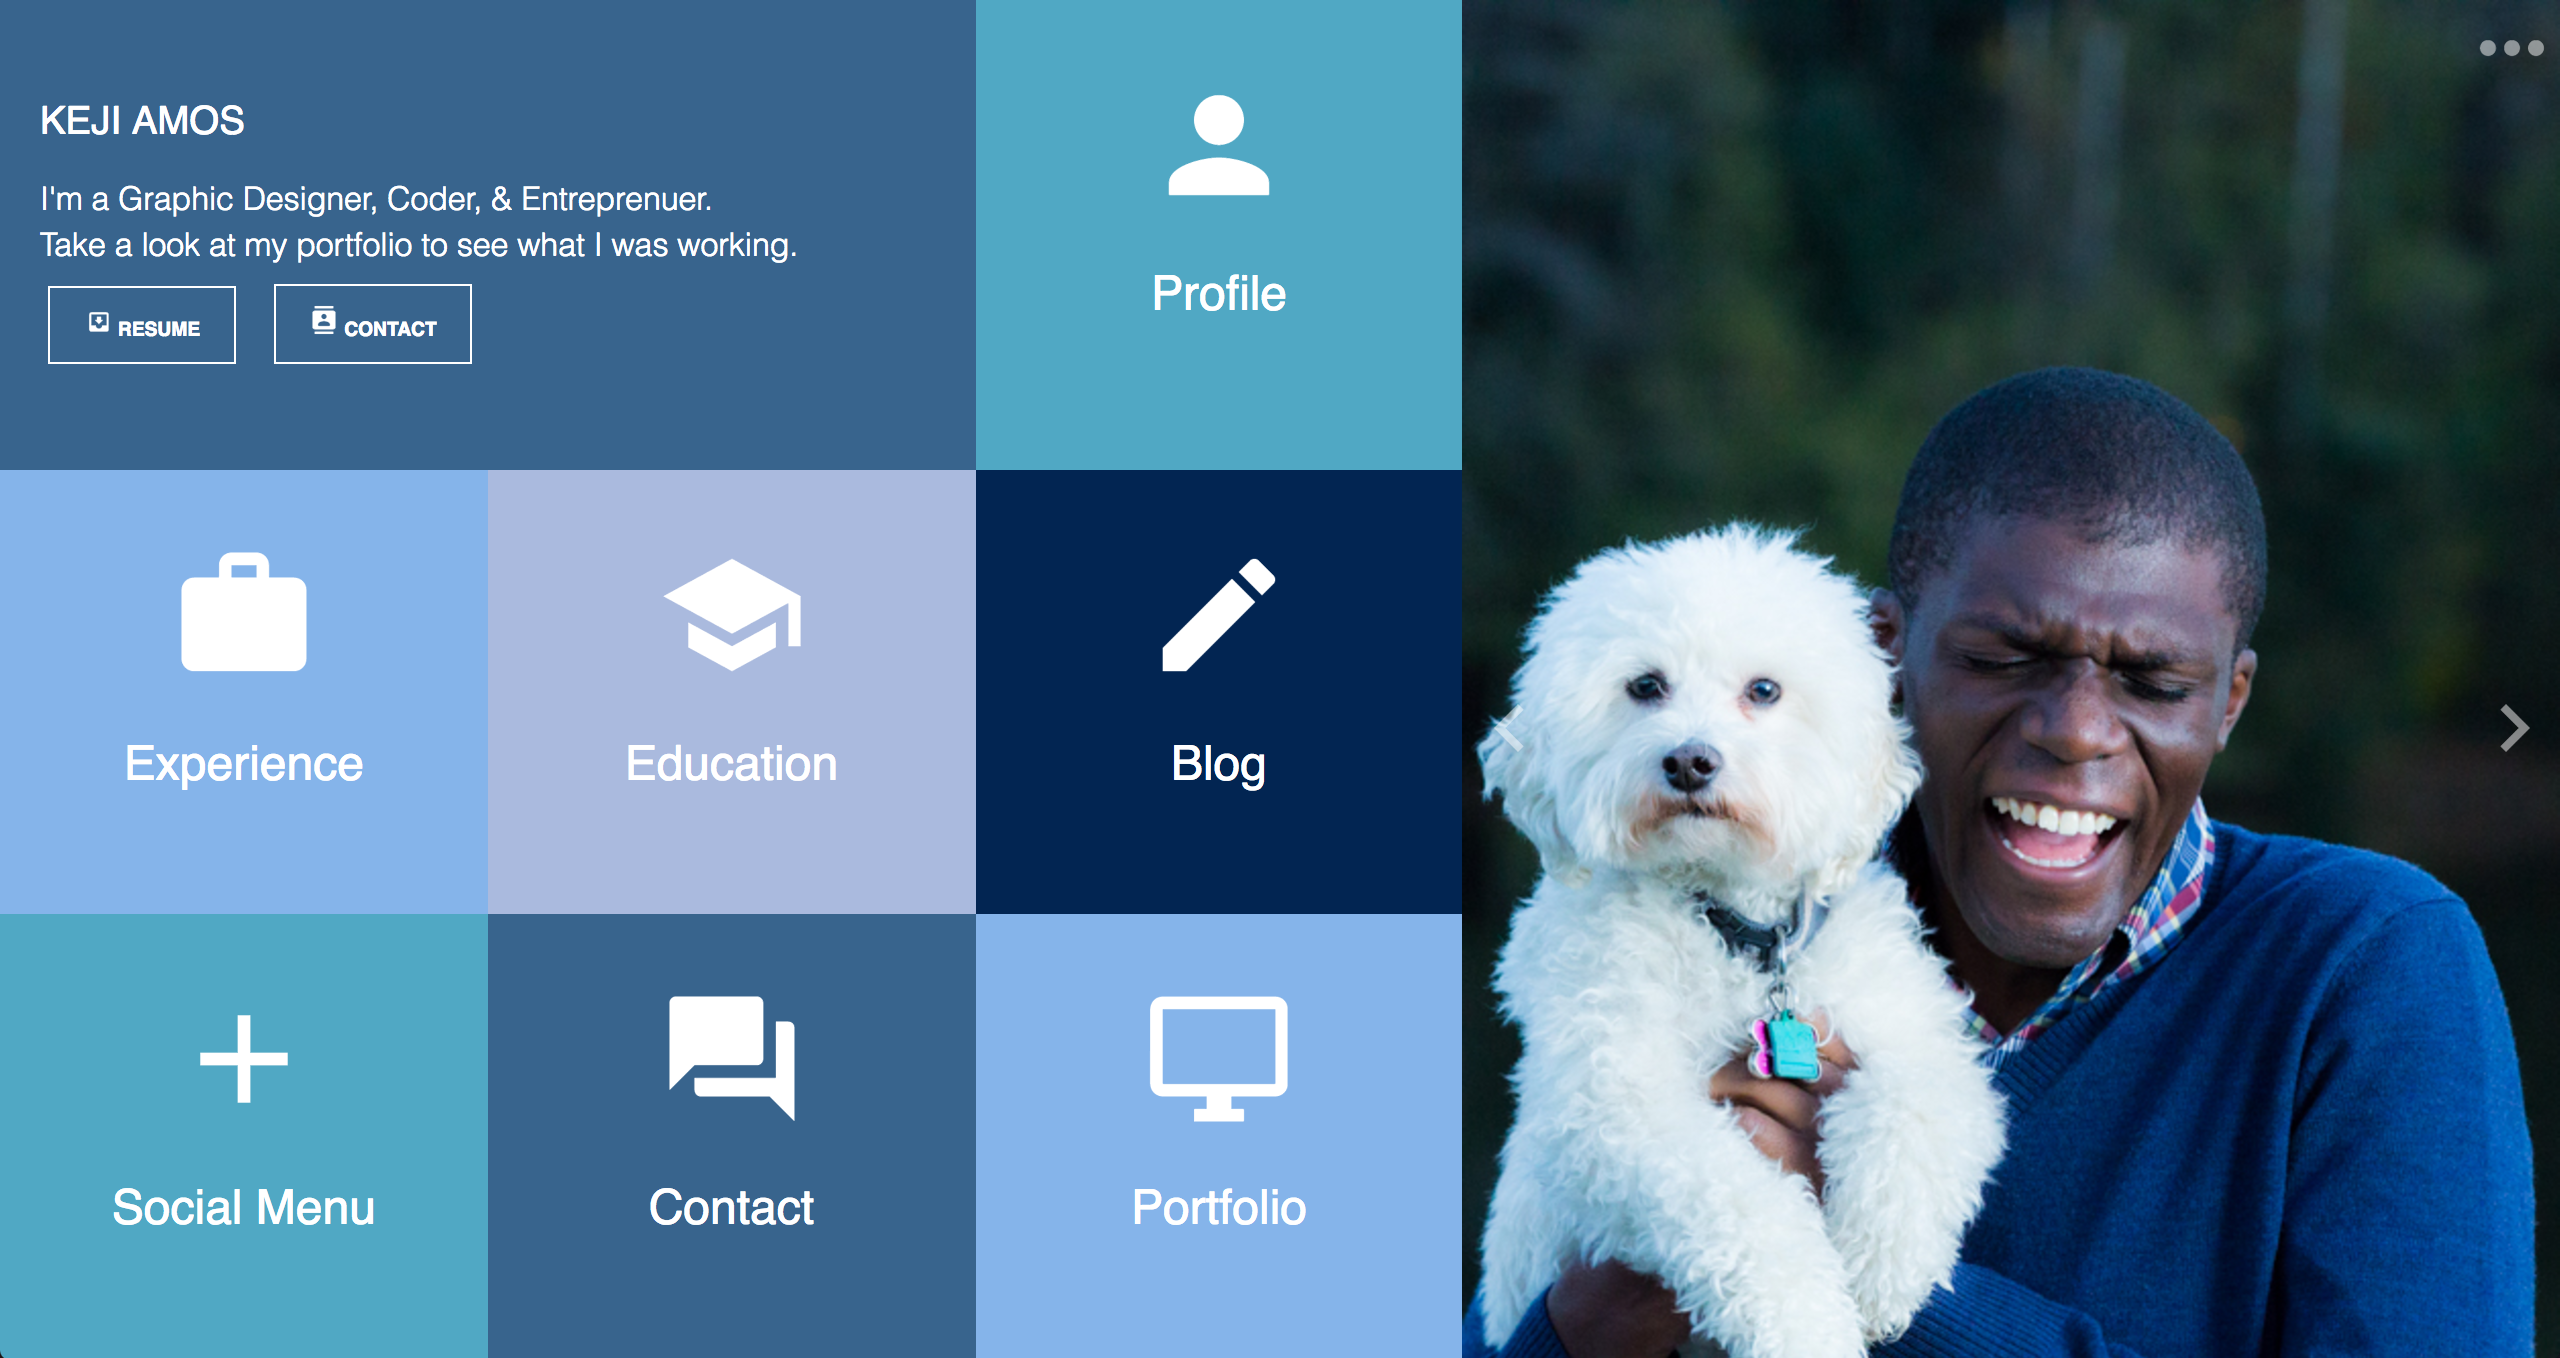
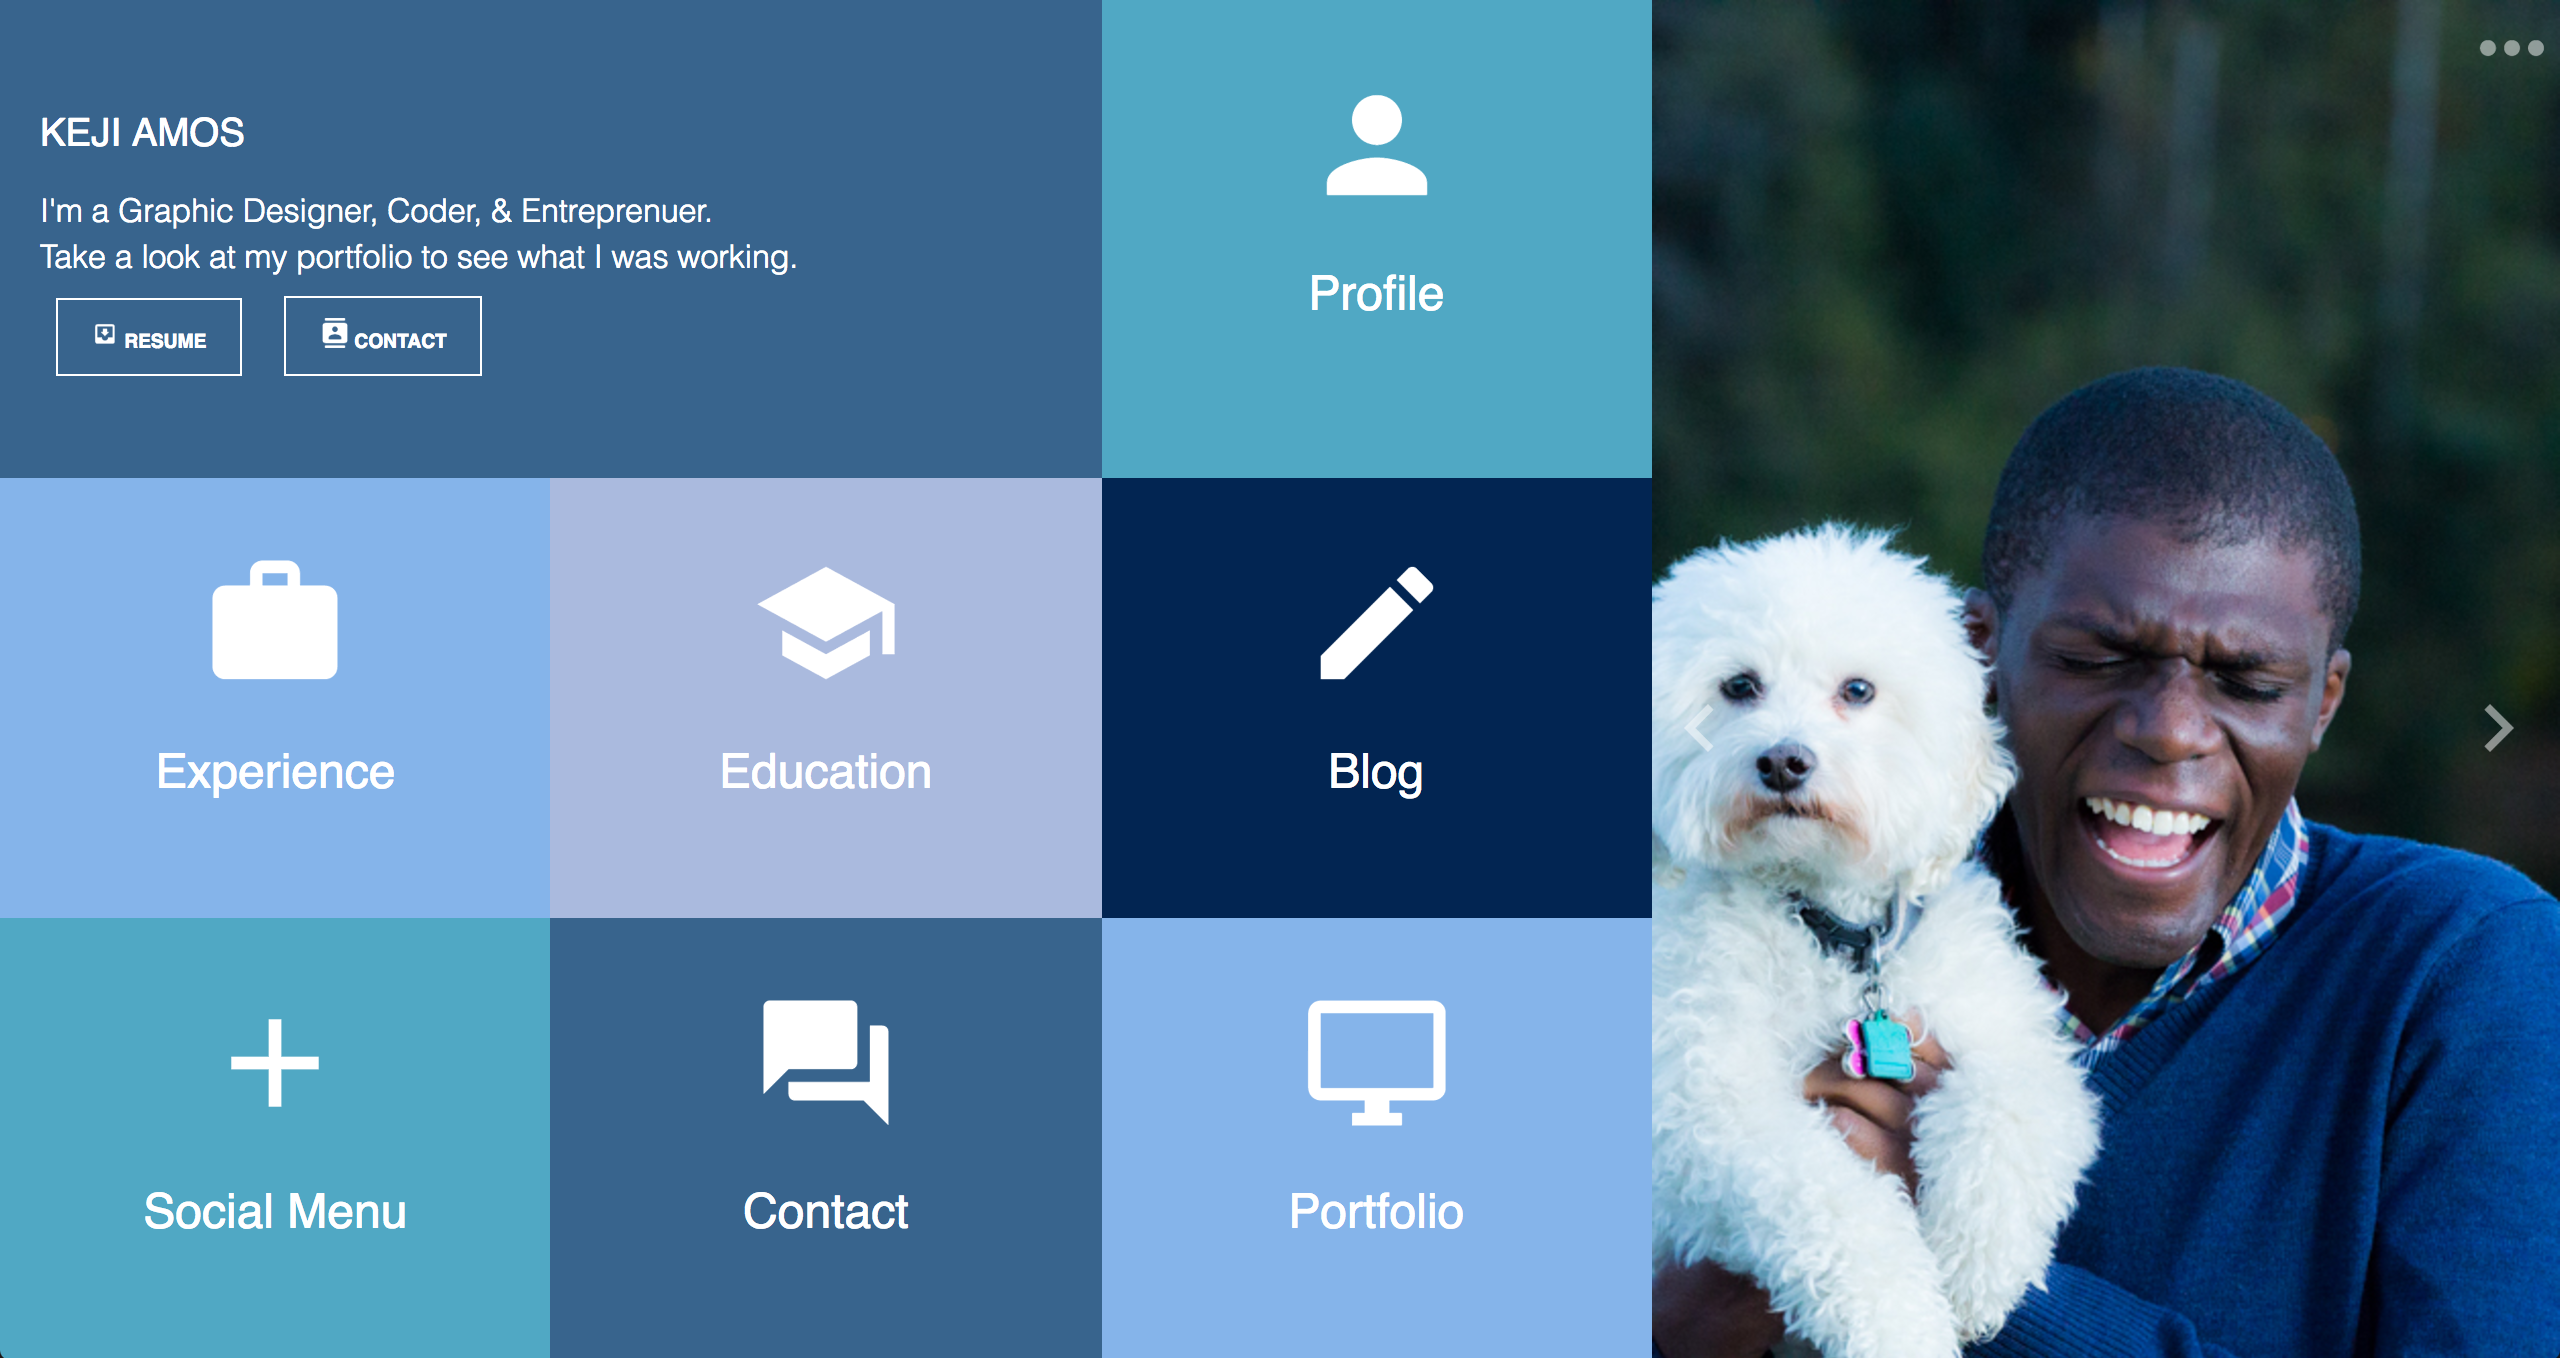
resize picture of me

diff --git a/styles.css b/styles.css
@@ -182,7 +182,7 @@ background: #85B4EA;
   }
 
   .container1 {
-    width: 75%;
+    width: 55%;
   }
 
   .right-nav-icon {
